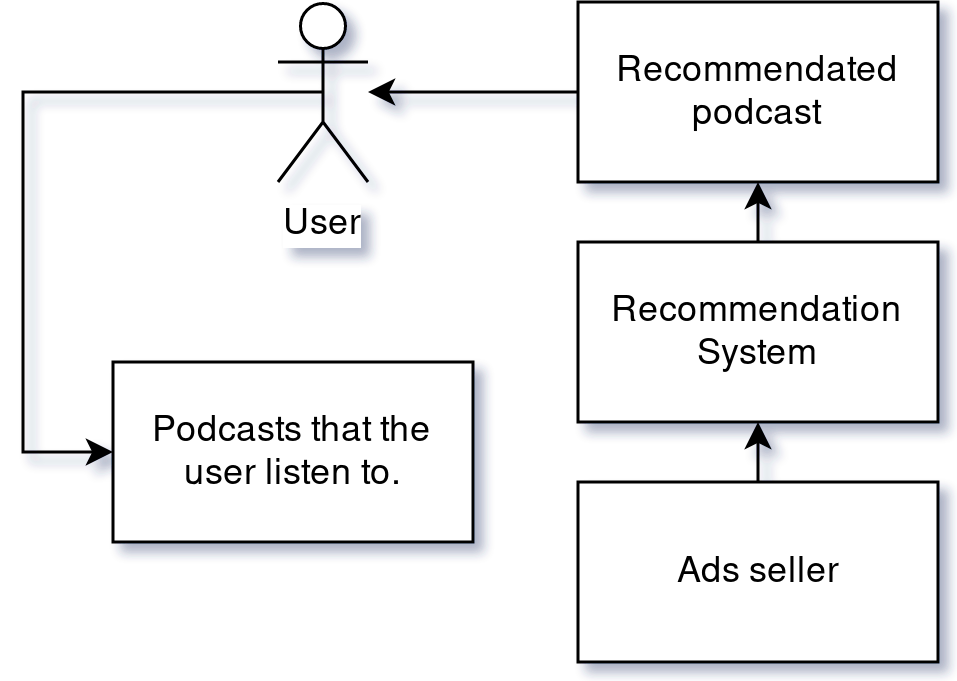
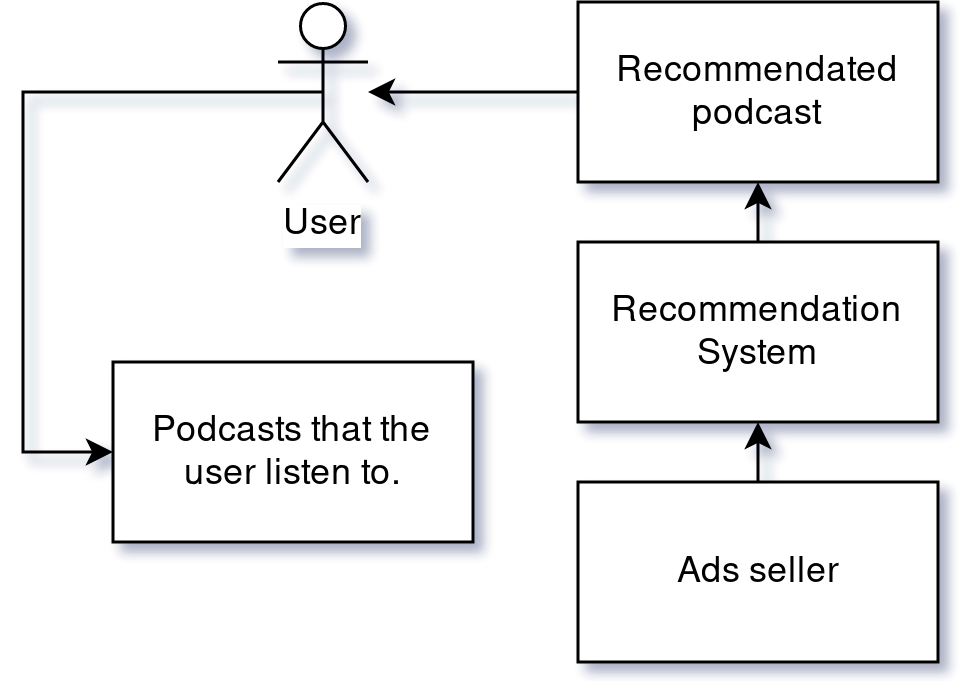
Ads images was the problem, changing it.

diff --git a/docs/support/SUPPORT.md b/docs/support/SUPPORT.md
@@ -18,7 +18,7 @@ When using a system that you are not paying for and sells adds for you, the syst
 
 <h1 align="center">
     <br>
-    <img src="https://raw.githubusercontent.com/Fazendaaa/podsearch_bot/master/img/docs/support/EN/donation.png" alt="ads system"/>
+    <img src="https://raw.githubusercontent.com/Fazendaaa/podsearch_bot/master/img/docs/support/EN/ads.png" alt="ads system"/>
 	<br>
 	<br>
 </h1>
